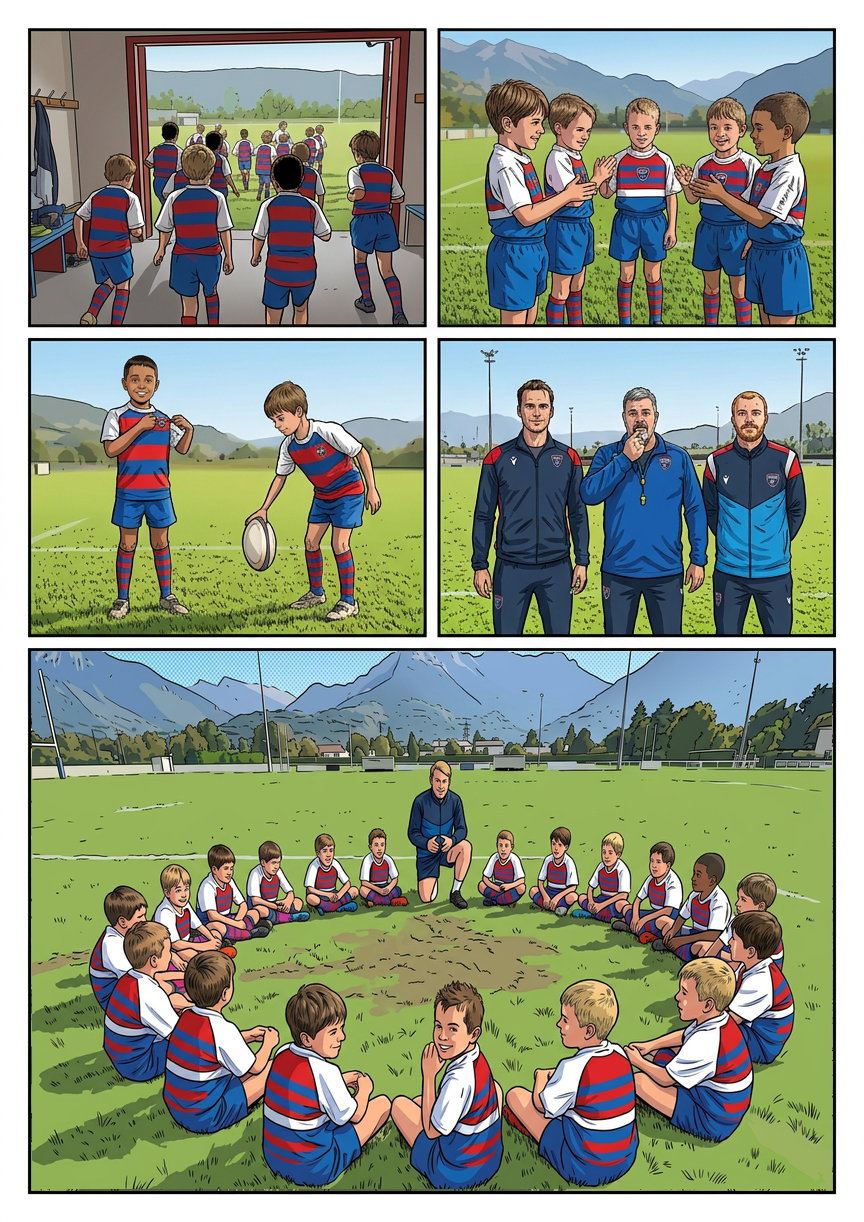
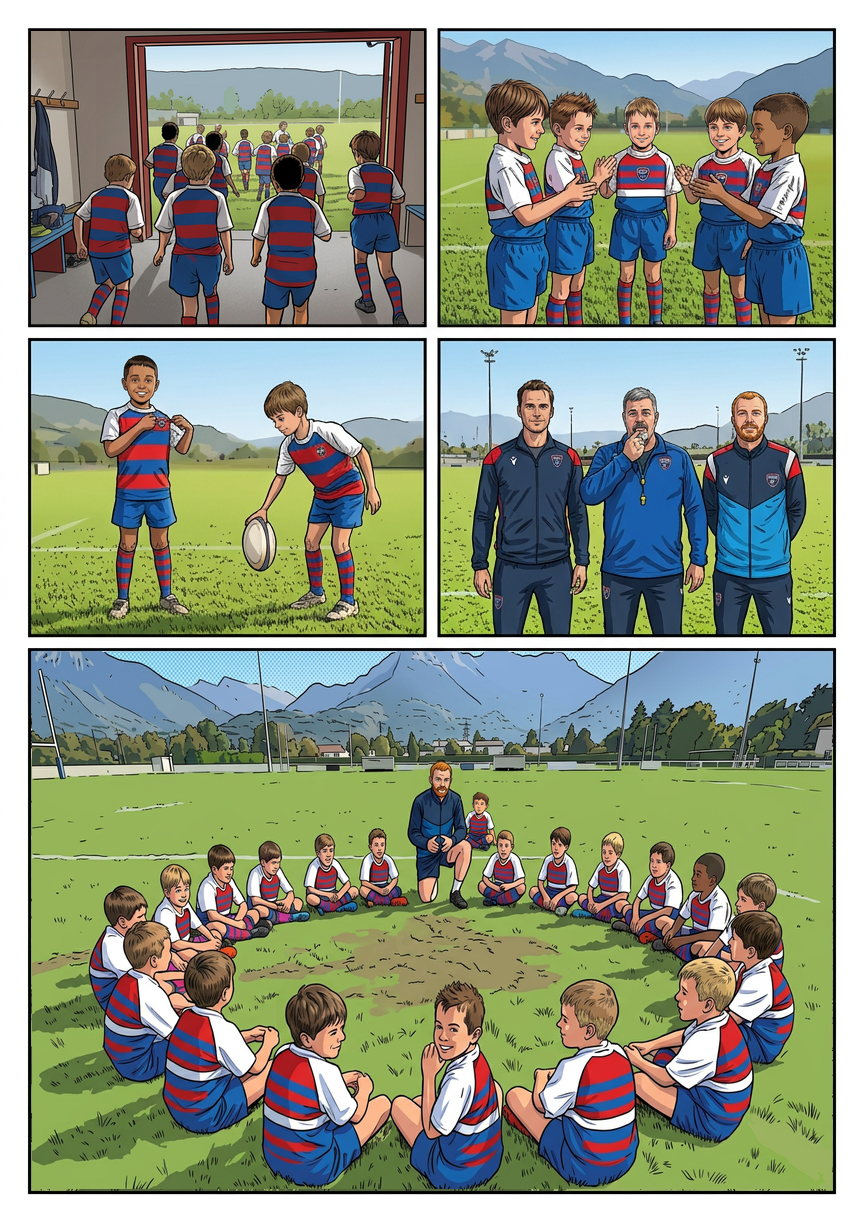
Revoir la planche 3 sur la couverture et rétablir les vingt joueurs

diff --git a/Planches-dessin/SUIVI-STYLE.md b/Planches-dessin/SUIVI-STYLE.md
@@ -2,7 +2,7 @@
 
 **La couverture `00-couverture-marvel.png` est désormais la seule référence de style et d’identité.** La décision utilisateur remplace la priorité V2 décrite dans l’historique ci-dessous. La couverture reste inchangée.
 
-Suivi actuel : [`validation/REVUE-COUVERTURE.md`](validation/REVUE-COUVERTURE.md) et son manifeste JSON : 153 vignettes inventoriées, 13 premières reprises, 2 corrections partielles, 138 autres contrôles individuels à faire, aucune validation définitive. Les anciennes approbations ne valent pas conformité au nouveau référentiel.
+Suivi actuel : [`validation/REVUE-COUVERTURE.md`](validation/REVUE-COUVERTURE.md) et son manifeste JSON : 153 vignettes inventoriées, 17 premières reprises, 2 corrections partielles, 134 autres contrôles individuels à faire, aucune validation définitive. Les anciennes approbations ne valent pas conformité au nouveau référentiel.
 
 ---
 
